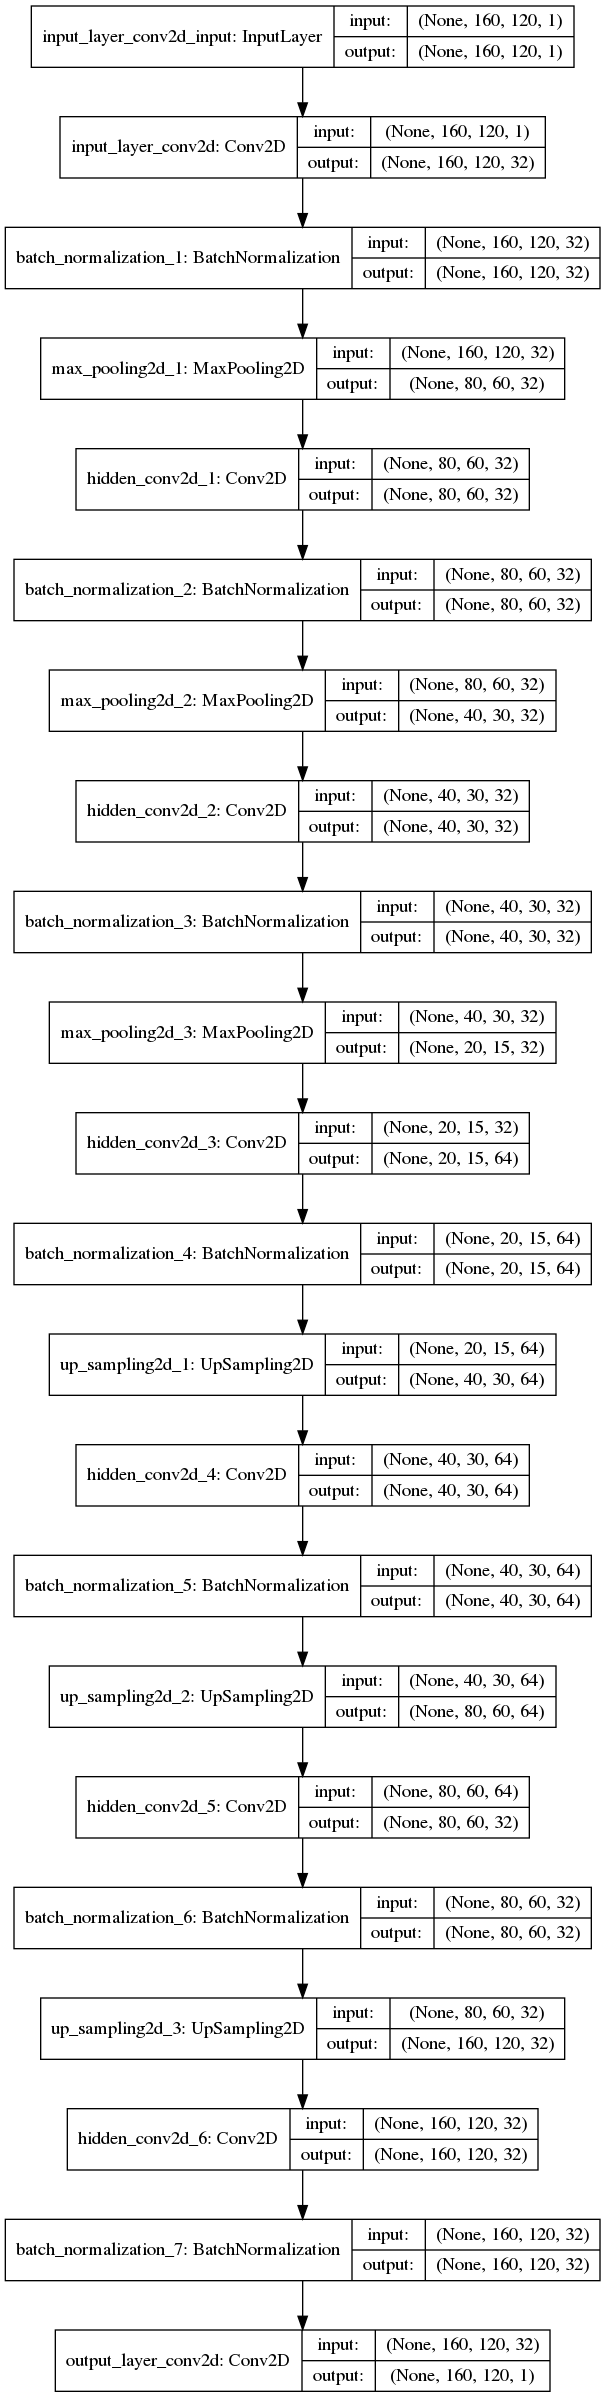
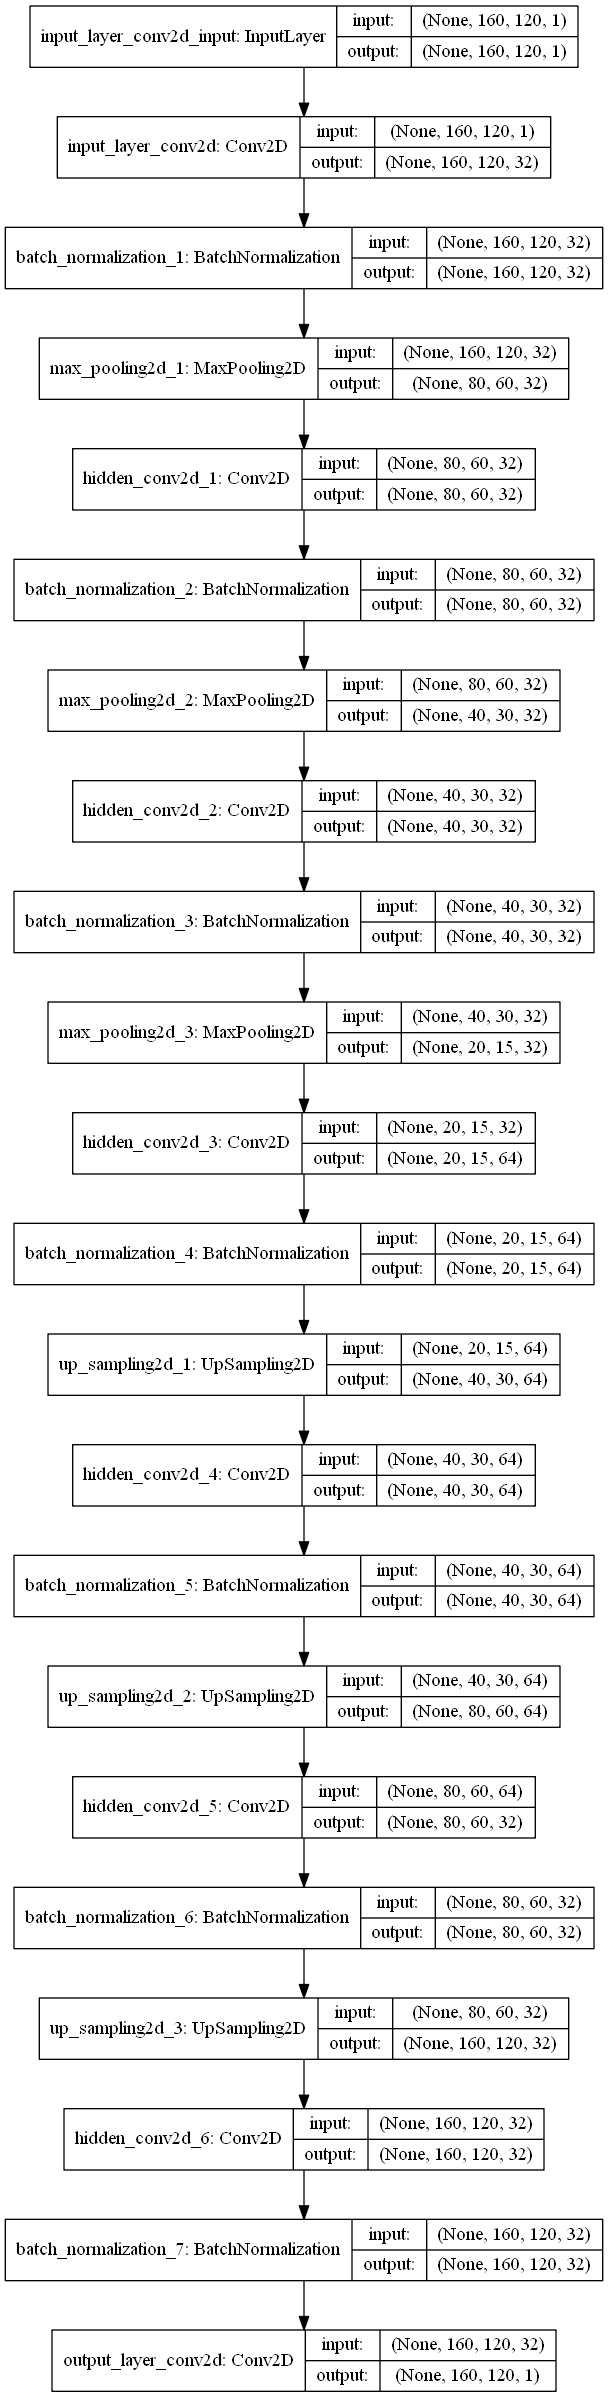
first_commit

diff --git a/model/conv2d.py b/model/conv2d.py
@@ -42,7 +42,7 @@ class Conv2DSupervisor():
 
         # Input
         model.add(
-            Conv2D(filters=32,
+            Conv2D(filters=64,
                    kernel_size=(3, 3),
                    padding='same',
                    activation=self.activation,
@@ -53,14 +53,14 @@ class Conv2DSupervisor():
         # Max Pooling - Go deeper
         model.add(MaxPooling2D(pool_size=(2, 2)))
         model.add(
-            Conv2D(32, (3, 3),
+            Conv2D(64, (3, 3),
                    activation='relu',
                    padding='same',
                    name='hidden_conv2d_1'))
         model.add(BatchNormalization())
         model.add(MaxPooling2D(pool_size=(2, 2)))
         model.add(
-            Conv2D(32, (3, 3),
+            Conv2D(64, (3, 3),
                    activation='relu',
                    padding='same',
                    name='hidden_conv2d_2'))
@@ -83,14 +83,14 @@ class Conv2DSupervisor():
         model.add(BatchNormalization())
         model.add(UpSampling2D(size=(2, 2)))
         model.add(
-            Conv2D(32, (3, 3),
+            Conv2D(64, (3, 3),
                    activation='relu',
                    padding='same',
                    name='hidden_conv2d_5'))
         model.add(BatchNormalization())
         model.add(UpSampling2D(size=(2, 2)))
         model.add(
-            Conv2D(32, (3, 3),
+            Conv2D(64, (3, 3),
                    activation='relu',
                    padding='same',
                    name='hidden_conv2d_6'))
